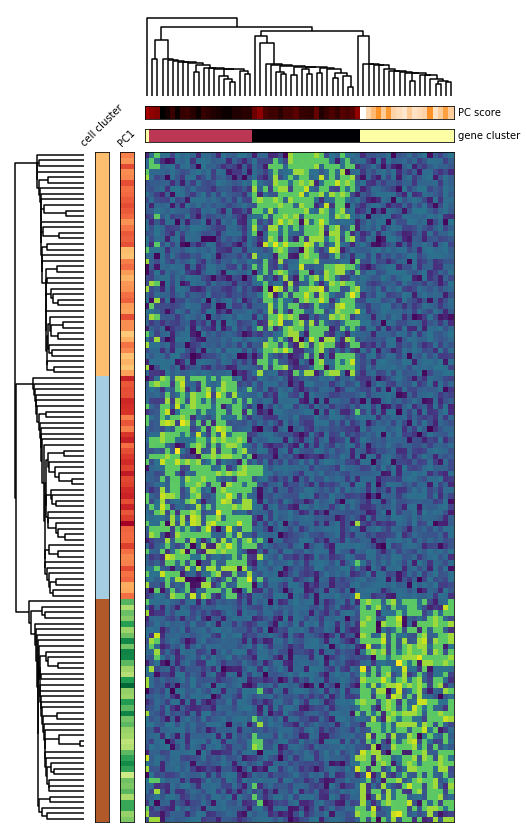
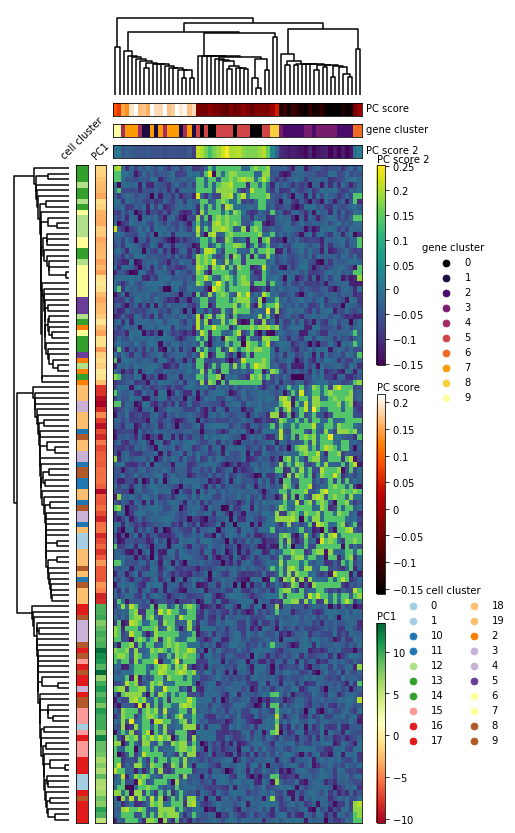
added colorbar and legend options

diff --git a/plot.py b/plot.py
@@ -193,6 +193,7 @@ class nheatmap():
         ax.grid(False)
         self.remove_border(ax)
         ax.set_yticks([])
+        ax.patch.set_alpha(0)
         self.remove_ticks(ax)
         return dendrogram
 
@@ -291,6 +292,13 @@ class nheatmap():
             self.cbar_data[key] = {}
             self.cbar_data[key]['df'] = df
             self.cbar_data[key]['cmap'] = cmap
+            minima = np.min(df.values)
+            maxima = np.max(df.values)
+            mid_val = (maxima - minima)/2 + minima
+            norm = MidpointNormalize(vcenter=mid_val, vmin=minima, vmax=maxima)
+            mapper = plt.cm.ScalarMappable(norm=norm, cmap=cmap)
+            self.cbar_data[key]['mapper'] = mapper
+            self.cbar_data[key]['norm'] = norm
         if which_side in ['left', 'right']:
             self.imshow(df, ax, cmap=cmap, *args)
         else:
@@ -380,29 +388,38 @@ class nheatmap():
         self.widths.append(3+self.showRdendrogram*self.rdendrogram_size)
         self.heights.append(3+self.showCdendrogram*self.cdendrogram_size)
         if self.show_cbar:
-            self.widths.append(0.5)
+            self.widths.append(0.25)
             self.widths.append(1)
 
     def hide_extra_grid(self, ax):
         ax.set_visible(False)
 
-    def plot_cbar(self, stored:dict, ax, discrete, key, s=100, *args):
+    def plot_cbar(self, stored:dict, ax, discrete, key, s=100, fmt=None, *args):
         if discrete:
+            cbar_height = self.figsize[0] * self.heights[-1] / sum(self.heights)
+            adjusted_s = s * (cbar_height/10)**2
+            length = len(stored['ulab'])
+            ncol = int(length / 10)
             for i, u in enumerate(stored['ulab']):
                 val = stored['tdict'][u]
-                ax.scatter(0, i, color=stored['mapper'].to_rgba(val), s=s)
-                ax.text(0+0.05, i, u, ha='left', va='center')
-            ax.text(0.5, 1.0, key, ha='center', va='center', transform=ax.transAxes)
-            ax.set_ylim(-10, i+1)
-            # ax.set_title(key, zorder=10)
+                ax.scatter([], [], color=stored['mapper'].to_rgba(val),
+                        s=adjusted_s, label=u)
+                ax.patch.set_alpha(0)
+            ax.legend(frameon=False, title=key, ncol=ncol, loc='center',
+                    fontsize=self.sub_title_font_size,
+                    bbox_to_anchor=(1, 0.5), scatterpoints=1, markerscale=1)
         else:
-            pass
+            cb = self.fig.colorbar(stored['mapper'], cax=ax, format=fmt)
+            ax.set_title(key, ha='left', va='center',
+                    fontsize=self.sub_title_font_size, zorder=999)
+            ax.patch.set_alpha(0)
+            ax.set_xlim(-1, 1)
         ax.grid(False)
         self.remove_border(ax)
         self.remove_ticks(ax)
 
     def set_up_cbar(self):
-        fmt = FormatScalarFormatter("%.1f")
+        fmt = FormatScalarFormatter("%.2g")
         self.caxs = {}
 
         ## colorbar plots
@@ -412,10 +429,11 @@ class nheatmap():
                     self.caxs[k]= self.plots[-1][-2]
                     divider_cbar = make_axes_locatable(self.caxs[k])
                 else:
-                    self.caxs[k] = divider_cbar.new_vertical(size='100%', pad=0.05)
+                    self.caxs[k] = divider_cbar.new_vertical(size='100%',
+                            pad=self.figsize[0]/20 * 1)
                     self.fig.add_axes(self.caxs[k], label=k)
                 self.plot_cbar(self.cbar_data[k], self.caxs[k], discrete=False,
-                        key=k)
+                        key=k, fmt=fmt)
         else:
             self.plots[-1][-2].set_visible(False)
 
@@ -426,33 +444,11 @@ class nheatmap():
                     self.caxs[k]= self.plots[-1][-1]
                     divider_legend = make_axes_locatable(self.caxs[k])
                 else:
-                    self.caxs[k] = divider_legend.new_vertical(size='100%', pad=0.05)
+                    self.caxs[k] = divider_legend.new_vertical(size='100%',
+                            pad=self.figsize[0]/20 * 1)
                     self.fig.add_axes(self.caxs[k], label=k)
                 self.plot_cbar(self.legend_data[k], self.caxs[k], discrete=True,
                         key=k)
         else:
             self.plots[-1][-1].set_visible(False)
-
-            # cbar = self.fig.colorbar(artist, cax=self.caxs[k], format=fmt)
-        # self.caxs['test1'].scatter([0], [0], color='r')
-        # self.caxs['test2'].scatter([0], [0], color='b')
-        # self.caxs['test3'].scatter([0], [0], color='g')
-
-        # for i, k in enumerate(['0', '1']):
-            # self.caxs[k] = divider.append_axes('bottom', size='100%', pad=0.05)
-            # self.fig.add_axes(self.caxs[k])
-            # divider = make_axes_locatable(self.caxs[k])
-        # plot_cbar = True
-        # if plot_cbar == True:
-            # fmt = FormatScalarFormatter("%.1f")
-            # divider = make_axes_locatable(ax)
-            # cax = divider.append_axes('right', size='5%', pad=0.05)
-            # cbar = fig.colorbar(artist, cax=cax, format=fmt)
-            # if np.max(cbar.get_ticks()) > 100:
-                # cbar.formatter.set_powerlimits((0, 0))
-            # cbar.ax.yaxis.set_offset_position('left')
-            # cbar.ax.tick_params(labelsize=(fontsize - 2))
-            # if legend_title is not None:
-                # cbar.ax.set_title(legend_title, fontsize=(fontsize-2))
-            # cbar.update_ticks()
 

diff --git a/test.py b/test.py
@@ -15,28 +15,18 @@ nrows, ncols = np.shape(df)
 pc = sklearn.decomposition.PCA().fit(df)
 dfr = pd.DataFrame(pc.transform(df)[:, 0], index=['sample '+str(x) for x in np.arange(1, nrows+1)],
         columns=['PC1'])
-dfr['cell cluster'] = sklearn.cluster.KMeans(n_clusters=3).fit_predict(df).astype(str)
+dfr['cell cluster'] = sklearn.cluster.KMeans(n_clusters=20).fit_predict(df).astype(str)
 dfc = pd.DataFrame(pc.components_[0], index=['gene '+str(x) for x in
     np.arange(1, ncols+1)], columns=['PC score'])
-dfc['gene cluster'] = sklearn.cluster.KMeans(n_clusters=3).fit_predict(df.T).astype(str)
+dfc['gene cluster'] = sklearn.cluster.KMeans(n_clusters=10).fit_predict(df.T).astype(str)
+dfc['PC score 2'] = pc.components_[1]
 cmaps={'cell cluster':'Paired', 'PC1':'RdYlGn', 'gene cluster':'inferno',
         'PC score':'gist_heat'}
 
 g = plot.nheatmap(data=df, dfr=dfr, dfc=dfc, figsize=(8, 15),
         cmaps=cmaps, linewidths=0, showxticks=False)
 g.hcluster()
-# fig.savefig('./examples/example1.png', bbox_inches='tight')
-```
-
-```python
-g = plot.nheatmap(data=df, dfr=dfr, dfc=dfc, figsize=(10, 15),
-        cmaps=cmaps, linewidths=0, showxticks=False)
-g.hcluster()
 fig, plots = g.run()
-# fig.savefig('./test.png', bbox_inches='tight')
-
-t = g.legend_data['gene cluster']
-t['mapper'](t['ulab'][0])
-
-
+fig.savefig('./examples/example1.png', bbox_inches='tight')
 ```
+

diff --git a/README.md b/README.md
@@ -3,7 +3,7 @@
 # nheatmap
 Inspired by pheatmap in R, this plotting tool aims to enable multi-level heatmap with the option to perform hierarchical clustering. The goal is develop a package that is both intuitive use and allows extensive configuration of the plot.
     
-![Example](logo.png)
+![Example](./examples/example1.png)
 
 ## Requirements
 
